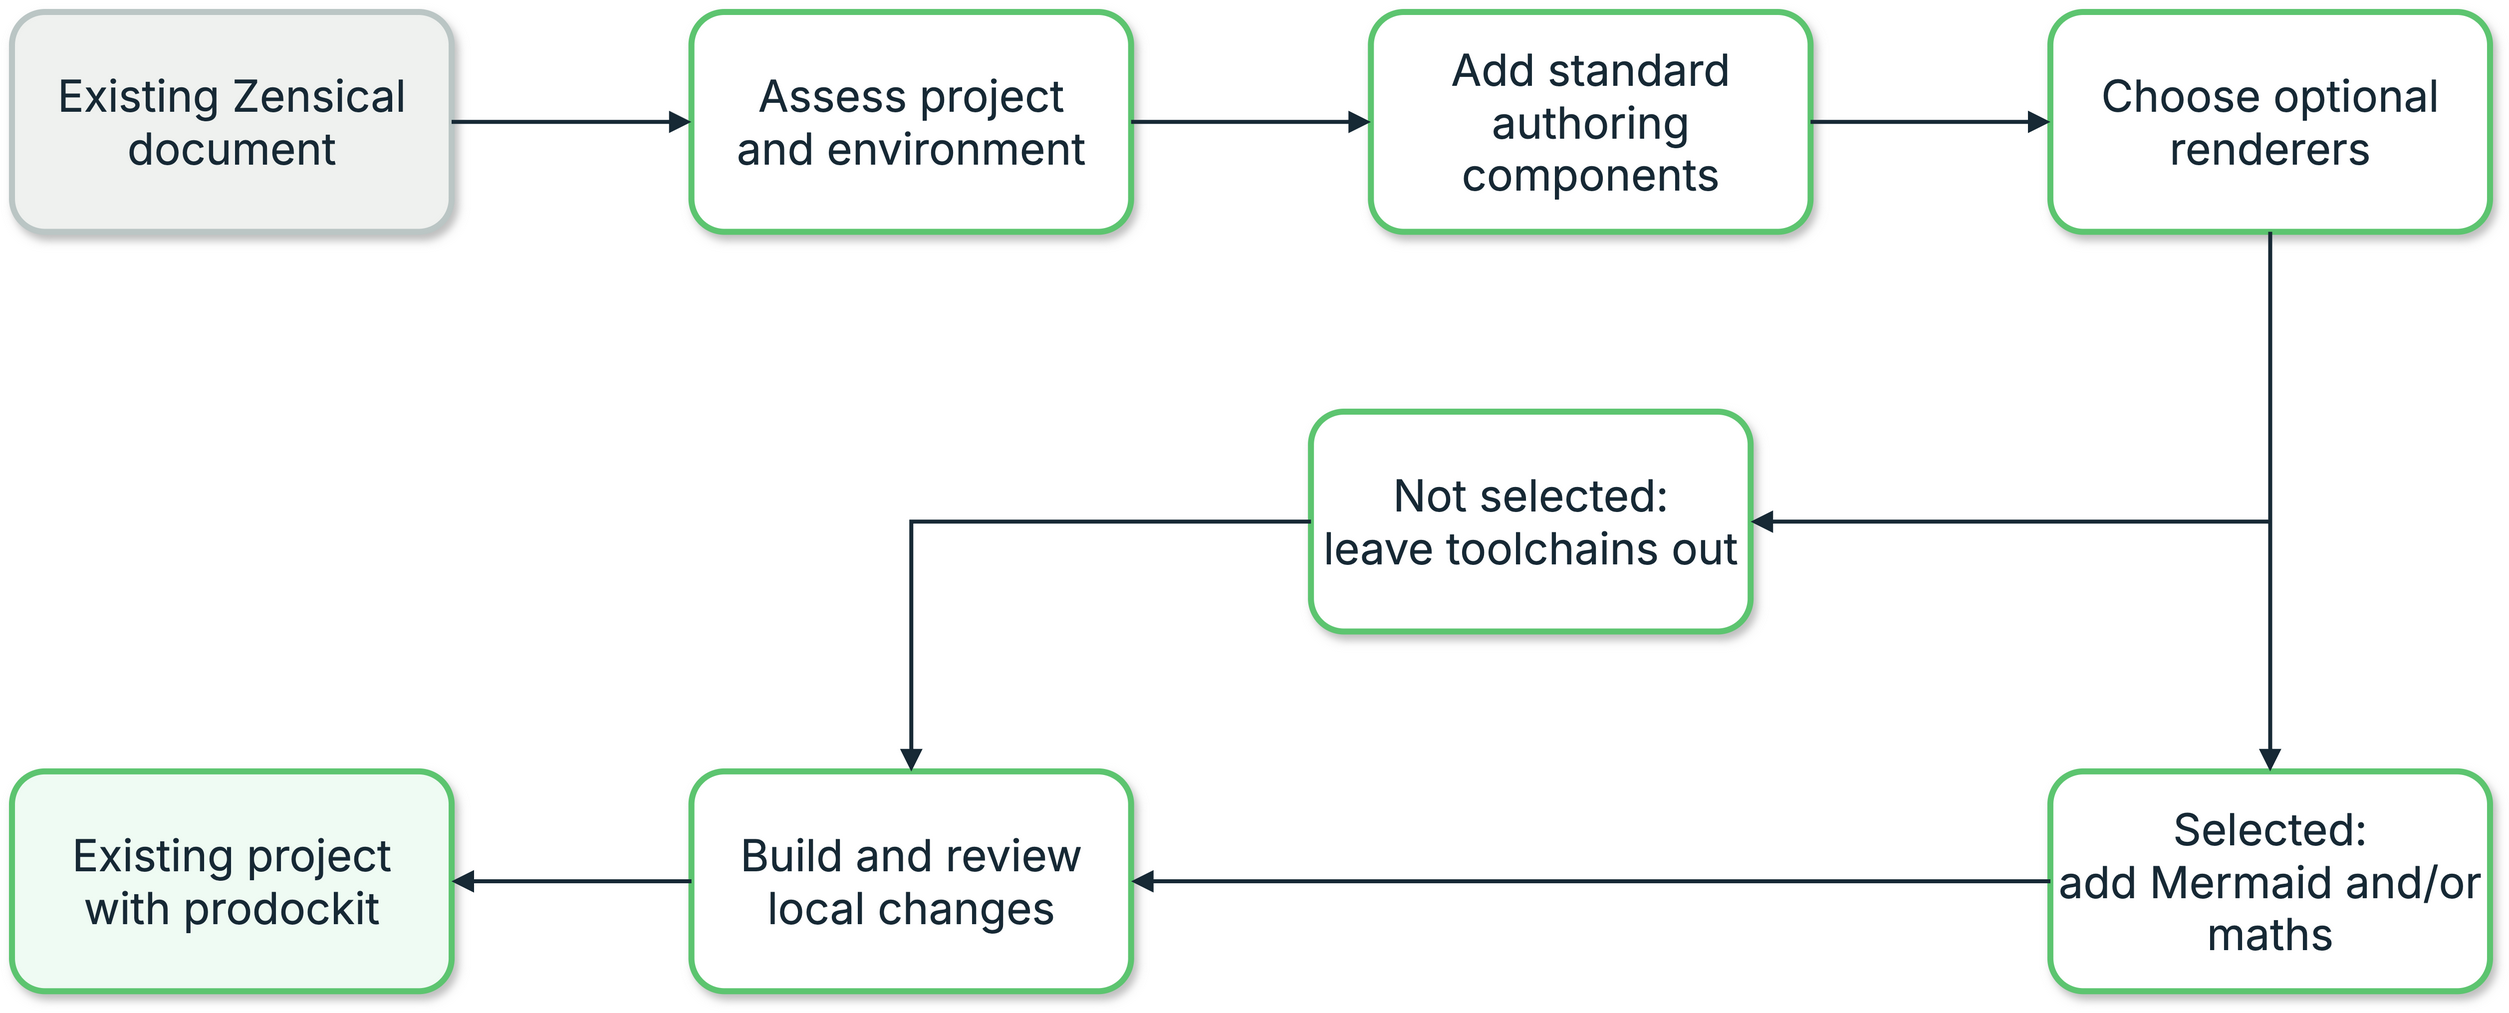
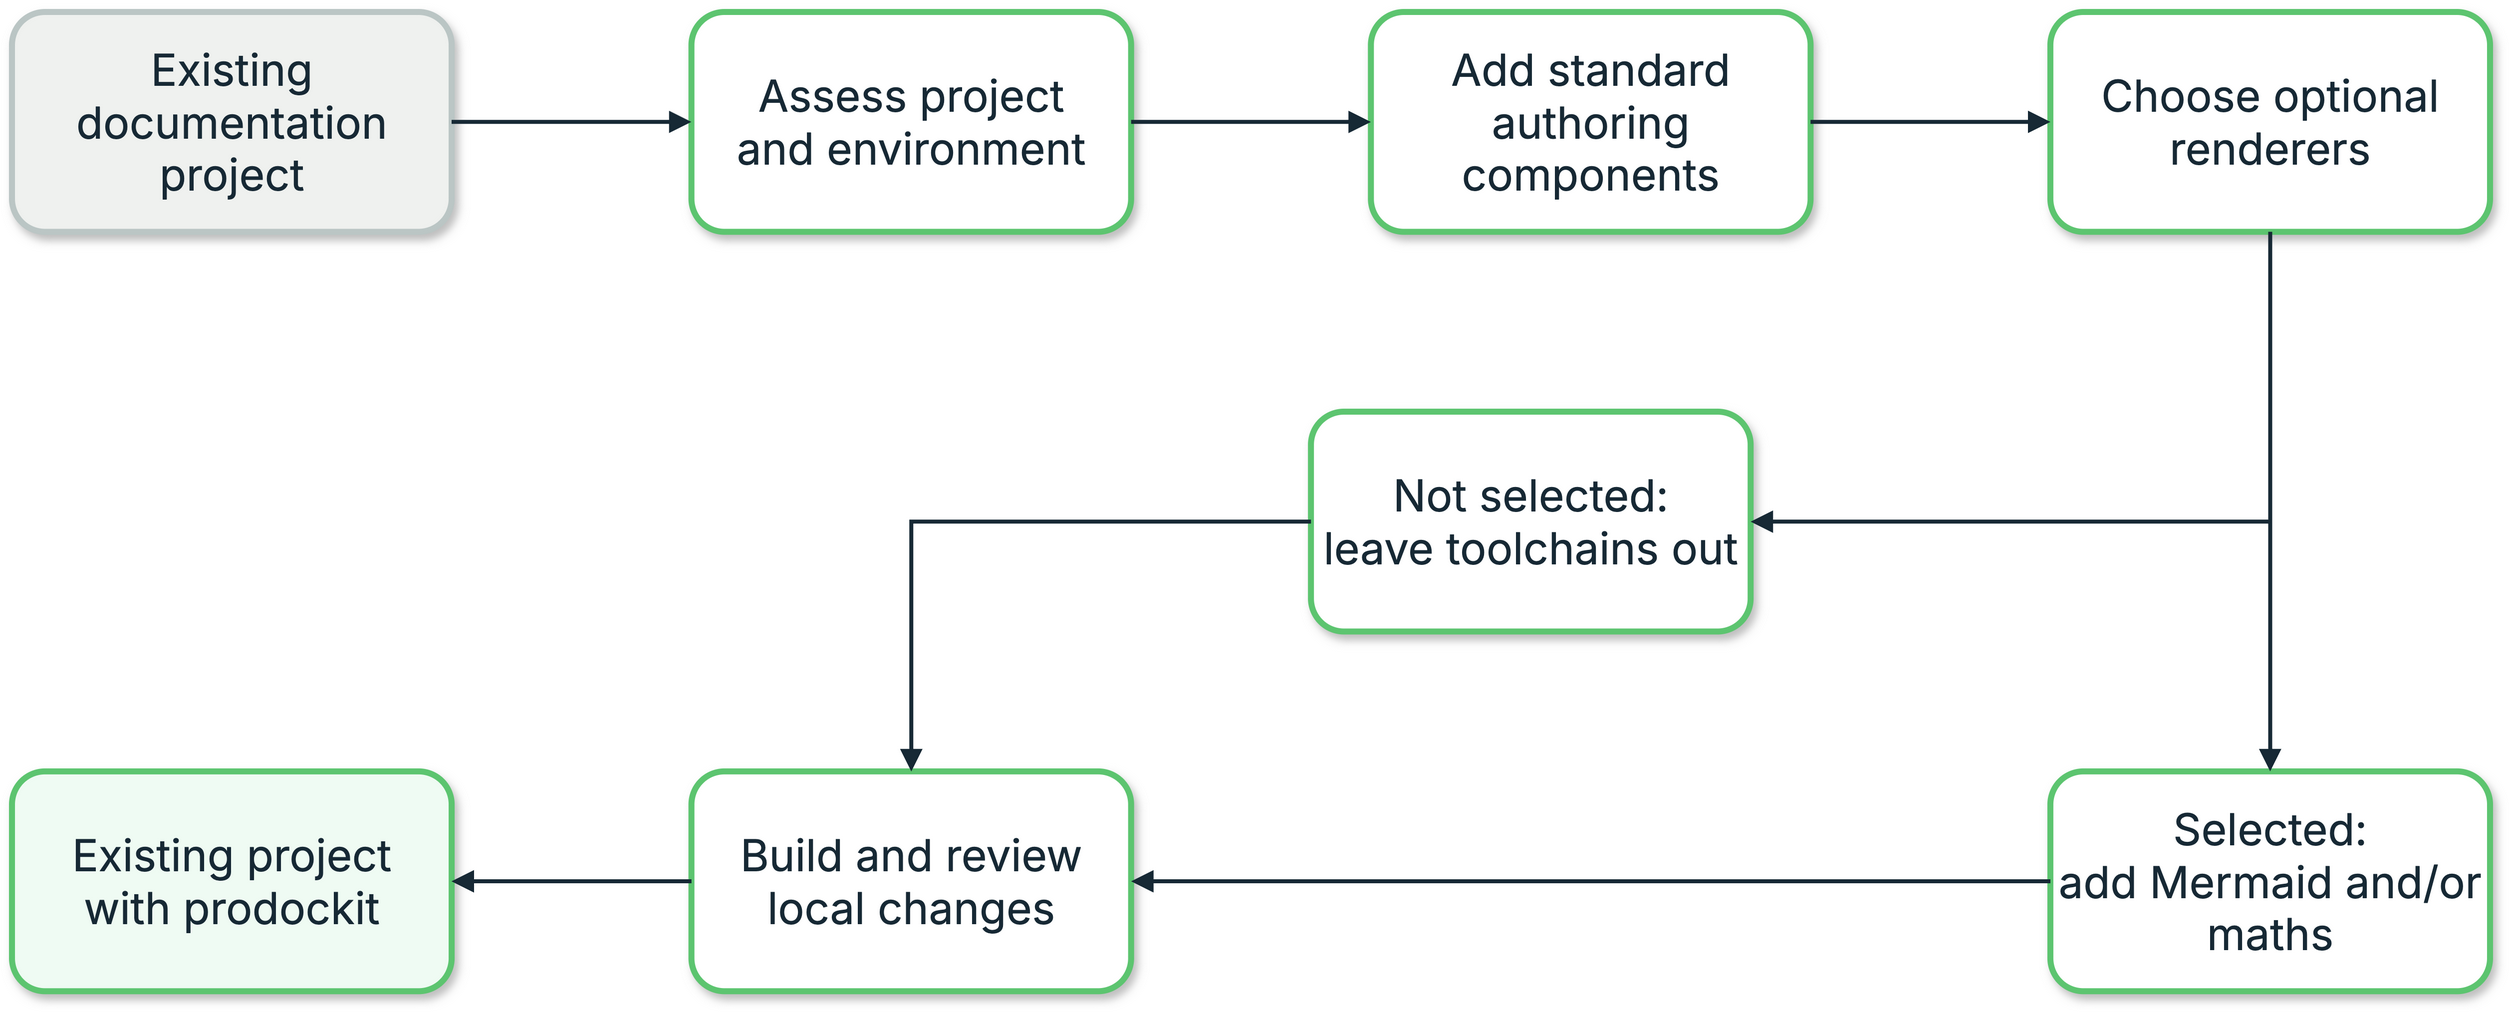
Caption the documentation diagrams

Changed region(s): [[0.0311, 0.0612, 0.1554, 0.2142]]

diff --git a/tests/test_maintenance_docs.py b/tests/test_maintenance_docs.py
@@ -59,6 +59,20 @@ def test_release_diagram_distinguishes_entry_points_from_steps() -> None:
     assert "fillColor=#19c866" in source
 
 
+def test_adoption_diagram_stays_independent_of_the_site_generator() -> None:
+    source = (
+        ROOT / "tools" / "documentation-diagrams" / "adoption-workflow.drawio"
+    ).read_text(encoding="utf-8")
+
+    assert "Existing documentation&lt;br&gt;project" in source
+
+
+def test_adoption_guide_is_for_zensical_projects() -> None:
+    guide = (ROOT / "docs" / "adopt.md").read_text(encoding="utf-8")
+
+    assert "mkdocs" not in guide.lower()
+
+
 def test_documentation_flow_diagrams_have_editable_drawio_sources() -> None:
     diagram_dir = ROOT / "tools" / "documentation-diagrams"
 
@@ -115,6 +129,10 @@ def test_documentation_flow_diagrams_are_committed_raster_images() -> None:
         guide = (ROOT / relative_path).read_text(encoding="utf-8")
         for image_name in image_names:
             assert image_name in guide, f"{relative_path} does not use {image_name}"
+            caption_id = f"attrs: {{id: fig-{Path(image_name).stem}}}"
+            assert caption_id in guide, (
+                f"{relative_path} does not caption {image_name} with {caption_id}"
+            )
             image = ROOT / "docs" / "assets" / "diagrams" / image_name
             assert image.read_bytes().startswith(png_signature), image
 

diff --git a/tests/test_built_docs.py b/tests/test_built_docs.py
@@ -34,6 +34,7 @@ from pathlib import Path
 from typing import Any
 
 import pytest
+from bs4 import BeautifulSoup
 
 from prodockit._zensical import _front_matter_flag, _scan_page_headings
 from prodockit.pdf.index import DEFAULT_INDEX_TITLE, MARKER_ID_PREFIX
@@ -102,6 +103,27 @@ APPENDIX_ATTR = "is_appendix"
 
 def test_the_pdf_built_and_has_pages(prodockit_pdf):
     assert prodockit_pdf.page_count > 5
+
+
+def test_documentation_diagrams_have_rendered_figure_captions(prodockit_paths):
+    expected = {
+        f"fig-{image.stem}"
+        for image in (ROOT / "docs" / "assets" / "diagrams").glob("*.png")
+    }
+    rendered: dict[str, str] = {}
+
+    for page in prodockit_paths.site_dir.rglob("*.html"):
+        soup = BeautifulSoup(page.read_text(encoding="utf-8"), "html.parser")
+        for figure in soup.select("figure[id]"):
+            figure_id = str(figure.get("id"))
+            if figure_id not in expected:
+                continue
+            caption = figure.find("figcaption")
+            assert caption is not None, figure_id
+            rendered[figure_id] = caption.get_text(" ", strip=True)
+
+    assert set(rendered) == expected
+    assert all(caption.startswith("Figure ") for caption in rendered.values())
 
 
 def test_desktop_on_this_page_uses_the_rendered_chapter_number(prodockit_paths) -> None:

diff --git a/docs/adopt.md b/docs/adopt.md
@@ -6,8 +6,8 @@ icon: lucide/package-plus
 
 # Add prodockit to an existing document
 
-`prodockit adopt` is for an existing Zensical or MkDocs document whose normal
-working environment is already established. It adds prodockit's authoring
+`prodockit adopt` is for an existing Zensical document whose normal working
+environment is already established. It adds prodockit's authoring
 extensions and their website styles without turning the project into a copy
 of prodockit-template.
 
@@ -16,6 +16,11 @@ repository. Adoption assumes that Git, SSH and the editor you prefer already
 work. It does not configure or change any of them.
 
 ![Adoption assesses an existing site, adds standard components, installs only the selected renderers, then leaves the author to build and review](assets/diagrams/adoption-workflow.png){ .documentation-diagram }
+/// figure-caption
+    attrs: {id: fig-adoption-workflow}
+
+Adopting Prodockit into an existing document
+///
 
 ## What the command changes
 
@@ -25,8 +30,7 @@ The standard installation adds:
     `requirements.txt`, `requirements/docs.txt` or `docs/requirements.txt`, in
     that order, and creates `requirements.txt` when none exists.
 - The standard prodockit Markdown extensions to the existing
-    `zensical.toml`, `zensical.yml`, `zensical.yaml`, `mkdocs.yml` or
-    `mkdocs.yaml`.
+    `zensical.toml`, `zensical.yml` or `zensical.yaml`.
 - `docs/stylesheets/pdk.css`, loaded before any project stylesheet so
     the project's own rules can override it.
 - `.prodockit-components.toml`, recording whether this project selected
@@ -56,9 +60,8 @@ existing working environment. Follow the adoption row under
 
 //// step | Change to the repository directory
 
-Use the directory containing the project's `zensical.toml`, Zensical YAML file
-(`zensical.yml` or `zensical.yaml`), or MkDocs YAML file (`mkdocs.yml` or
-`mkdocs.yaml`):
+Use the directory containing the project's `zensical.toml` or Zensical YAML
+file (`zensical.yml` or `zensical.yaml`):
 
 ```bash
 cd /path/to/your-document
@@ -193,17 +196,9 @@ with unrelated documents.
 
 //// step | Build the website
 
-=== "Zensical project"
-
-    ```bash
-    zensical build --clean
-    ```
-
-=== "MkDocs project"
-
-    ```bash
-    mkdocs build --clean
-    ```
+```bash
+zensical build --clean
+```
 
 This uses the document's actual pages and configuration, so it remains the
 final proof that the adopted components work with the existing project.
@@ -234,5 +229,5 @@ prodockit adopt --apply
 ```
 
 It reassesses the files and continues with stages that still need work. It does
-not overwrite an existing project stylesheet or remove existing Zensical or
-MkDocs configuration.
+not overwrite an existing project stylesheet or remove existing Zensical
+configuration.

diff --git a/docs/devcons/extension-internals.md b/docs/devcons/extension-internals.md
@@ -11,6 +11,11 @@ This page explains the integration machinery used when changing an extension
 or embedding it in a renderer other than Zensical.
 
 ![Markdown and configuration pass through the extension layer and Zensical before the shared website and PDF style paths produce their outputs](../assets/diagrams/extension-integration-flow.png){ .documentation-diagram }
+/// figure-caption
+    attrs: {id: fig-extension-integration-flow}
+
+Extension integration flow
+///
 
 ## Share definitions across pages {: #share-definitions-across-pages }
 
@@ -29,6 +34,11 @@ page before conversion so a page can refer forward to a definition rendered
 later.
 
 ![A build-wide scan collects labels before references are resolved across Markdown files for both the website and PDF](../assets/diagrams/cross-reference-resolution.png){ .documentation-diagram }
+/// figure-caption
+    attrs: {id: fig-cross-reference-resolution}
+
+Cross-file reference resolution
+///
 
 Outside Zensical, the caller supplies the registry and source explicitly:
 
@@ -68,6 +78,11 @@ disambiguation. It passes each distinct citation or reference-list request to
 the formatted HTML for the rest of the build.
 
 ![Bibliography formatting pipeline from authored inputs through Pandoc to the website and PDF](../assets/diagrams/bibliography-pipeline.png){ .documentation-diagram }
+/// figure-caption
+    attrs: {id: fig-bibliography-pipeline}
+
+Bibliography formatting pipeline
+///
 
 Pandoc formats only the requested citation or list. Zensical still renders the
 surrounding page.

diff --git a/docs/devcons/releasing.md b/docs/devcons/releasing.md
@@ -23,6 +23,11 @@ the tagged source, while the documentation redeploy is deliberately run from
 ## Understand the workflow chain
 
 ![Prodockit pull-request, publication and weekly drift-check workflows](../assets/diagrams/release-workflow.png){ .documentation-diagram .release-workflow-diagram }
+/// figure-caption
+    attrs: {id: fig-release-workflow}
+
+Release and continuous-integration workflow
+///
 
 The solid green boxes are entry points: a maintainer starts the release path
 from a release branch, while GitHub starts the drift path on its weekly
@@ -374,3 +379,8 @@ and the userguide—should update deliberately, rebuild their own site and PDF,
 and use their own tests before adopting the release.
 
 ![A prodockit release is followed by deliberate pin, shared-file, build, test and release updates in the template and userguide](../assets/diagrams/downstream-release-cascade.png){ .documentation-diagram }
+/// figure-caption
+    attrs: {id: fig-downstream-release-cascade}
+
+Downstream release cascade
+///

diff --git a/docs/stylesheets.md b/docs/stylesheets.md
@@ -51,10 +51,20 @@ continues through its two PDF-only files:
 **Website stylesheet cascade**
 
 ![Website stylesheet cascade: the Zensical theme, then Prodockit's managed pdk.css, then the author's extra.css](assets/diagrams/website-stylesheet-cascade.png){ .documentation-diagram }
+/// figure-caption
+    attrs: {id: fig-website-stylesheet-cascade}
+
+Website stylesheet cascade
+///
 
 **PDF stylesheet cascade**
 
 ![PDF stylesheet cascade: renderer foundations, pdk.css, extra.css, pdk-pdf.css, then print.css](assets/diagrams/pdf-stylesheet-cascade.png){ .documentation-diagram }
+/// figure-caption
+    attrs: {id: fig-pdf-stylesheet-cascade}
+
+PDF stylesheet cascade
+///
 
 Implement the cascade by listing the files in this order in `zensical.toml`:
 

diff --git a/docs/introduction.md b/docs/introduction.md
@@ -16,6 +16,11 @@ cross-references, citations, glossaries, richer tables, and a printable PDF.
 Install one Python package, then enable only the parts your project uses.
 
 ![Markdown and project configuration pass through Prodockit's authoring and style components and Zensical to produce a website, while Prodockit's PDF pipeline and styles produce the matching printable document](assets/diagrams/prodockit-output-relationship.png){ .documentation-diagram }
+/// figure-caption
+    attrs: {id: fig-prodockit-output-relationship}
+
+Relationship between Prodockit's source, components and outputs
+///
 
 If you want to see it working before reading the reference pages, follow
 [Build your first site](getting-started.md). It starts with a new Zensical

diff --git a/docs/devcons/template-sync.md b/docs/devcons/template-sync.md
@@ -17,6 +17,11 @@ The \index{commands!`prodockit template-sync`} command closes that gap without t
 writing.
 
 ![Template sync previews changes first, updates unchanged managed files automatically, and leaves author-edited files for an explicit decision](../assets/diagrams/template-sync-decision.png){ .documentation-diagram }
+/// figure-caption
+    attrs: {id: fig-template-sync-decision}
+
+Template-sync decision flow
+///
 
 Use it periodically while a project is active and before a final release. A
 long gap is supported, but it produces a larger change that is harder to

diff --git a/docs/devcons/continuous-integration.md b/docs/devcons/continuous-integration.md
@@ -125,6 +125,11 @@ retrieve the intended version; these are three separate checks.
 ## Understand the build order
 
 ![Build order from authored source through PDF and website builds to public verification](../assets/diagrams/publication-pipeline.png){ .documentation-diagram }
+/// figure-caption
+    attrs: {id: fig-publication-pipeline}
+
+Publication build and verification order
+///
 
 The PDF is built before the website because it lives under `docs/` by default.
 Zensical copies it into the static site together with other downloadable

diff --git a/docs/devcons/pdf-internals.md b/docs/devcons/pdf-internals.md
@@ -12,6 +12,11 @@ API directly. Document authors should use [Generate a PDF](../pdf.md).
 ## Follow the pipeline
 
 ![Pipeline from the Zensical project through generated HTML, Pandoc and WeasyPrint to the final PDF](../assets/diagrams/pdf-pipeline.png){ .documentation-diagram }
+/// figure-caption
+    attrs: {id: fig-pdf-pipeline}
+
+PDF generation pipeline
+///
 
 The public `prodockit pdf` command runs Zensical's documented
 `build --clean` command, reads each navigation page's generated article, and

diff --git a/docs/prodockit-template.md b/docs/prodockit-template.md
@@ -158,6 +158,11 @@ After creation, the repository is your project. The template manifest,
 guessing about ownership.
 
 ![Template files are classified as managed or shared, author-owned, or generated and local so later updates preserve the author's work](assets/diagrams/template-file-ownership.png){ .documentation-diagram }
+/// figure-caption
+    attrs: {id: fig-template-file-ownership}
+
+Template file ownership
+///
 
 | Classification | Examples | Later template update |
 |---|---|---|

diff --git a/docs/devcons/bootstrap.md b/docs/devcons/bootstrap.md
@@ -358,6 +358,11 @@ and why - and running `--apply` again does only that stage.
 ## What it covers {: #bootstrap-stages }
 
 ![The seven bootstrap phases progress from preflight and core tools through Git, the project, build tooling, the editor and publication](../assets/diagrams/bootstrap-journey.png){ .documentation-diagram }
+/// figure-caption
+    attrs: {id: fig-bootstrap-journey}
+
+Prodockit bootstrap journey
+///
 
 | # | Stage | Automated? |
 | --- | --- | --- |
